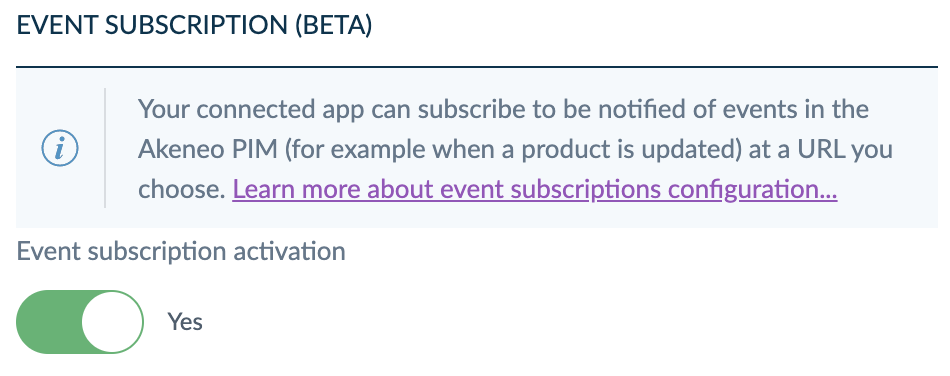
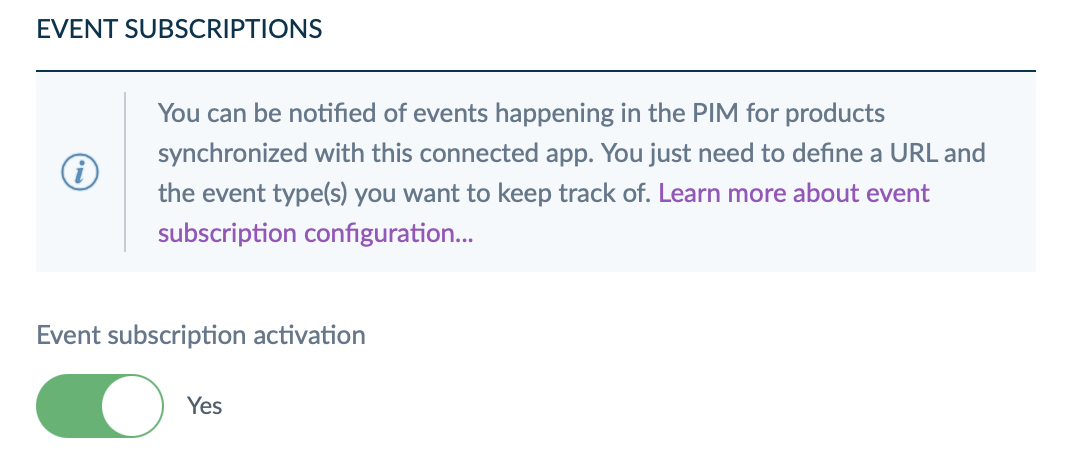
fix a link between pages and update a screenshot

Changed region(s): [[0.0305, 0.1463, 0.9768, 0.5559], [0.0, 0.6436, 0.3663, 0.9654], [0.0, 0.0293, 0.3968, 0.0878]]

diff --git a/content/md/connectivity/manage-event-subscription.md b/content/md/connectivity/manage-event-subscription.md
@@ -4,11 +4,11 @@ themes: connectivity, import-export-data
 title: Subscribe to **events**
 popular: true
 ee-only: false
-related: what-is-the-event-subscription, how-to-connect-my-pim, manage-your-connections
+related: what-is-an-event-subscription, how-to-connect-my-pim, manage-your-connections
 ---
 
 ::: info
-Before we jump right in, if you need to refresh your memory about [event subscriptions](what-is-the-event-subscription.html), take a look at our dedicated page.
+Before we jump right in, if you need to refresh your memory about [event subscriptions](what-is-an-event-subscription.html), take a look at our dedicated page.
 ::: 
 
 
@@ -24,7 +24,7 @@ On this page, you'll find answers to the following questions:
 First, an event subscription relies on the Akeneo PIM Connections feature, so you'll need to create a Connection first if you don't already have one.
 You will find everything you need on the [Create a connection](manage-your-connections.html#create-a-connection) page. 
 
-In order to enable the feature, go to the `Event Subscriptions` configuration page, then use the toggle to turn it on.
+In order to enable the feature, go to the `Event Subscription` configuration page, then use the toggle to turn it on.
 
 ![Using the Akeneo Events API](../img/event-subscription-helper.png)
 
